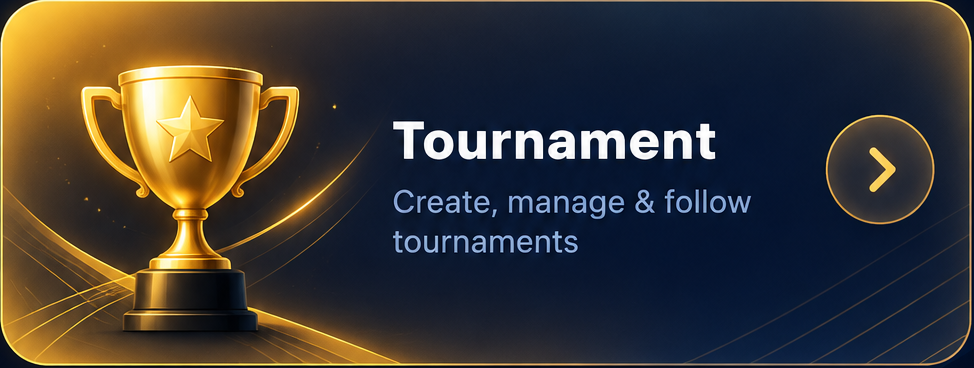
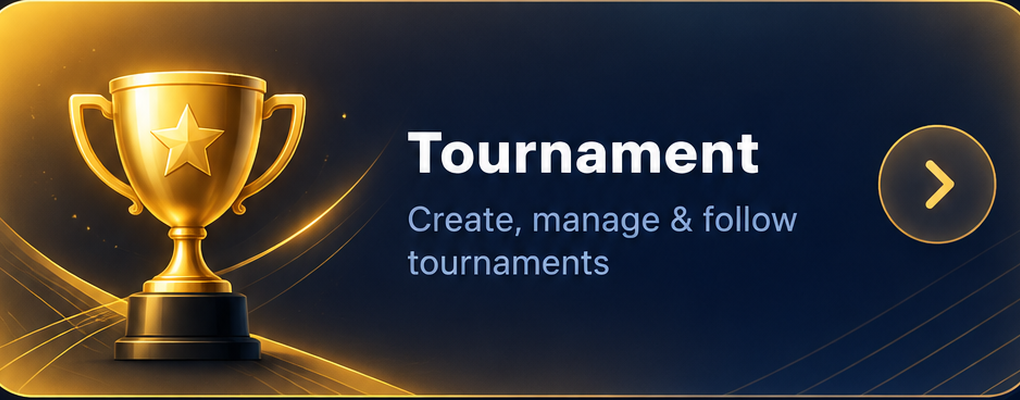
Add files via upload

diff --git a/index.html b/index.html
@@ -3888,6 +3888,15 @@ style="display:none;font-size:0.72rem;color:var(--accent);word-break:break-all;m
 @media(max-width:440px){#scsActivityHome{padding:calc(env(safe-area-inset-top,0px) + 12px) 14px calc(env(safe-area-inset-bottom,0px) + 12px)}#scsActivityHome .scs-activity-panel{gap:14px}}
 @media(max-width:350px){#scsActivityHome .scs-shared-club-head{grid-template-columns:40px minmax(0,1fr) auto}#scsActivityHome .scs-shared-club-action{grid-column:auto;width:auto;min-height:38px}#scsActivityHome .scs-shared-club-status{font-size:.65rem}}
 @media(max-height:650px){#scsActivityHome{align-items:flex-start}#scsActivityHome .scs-activity-panel{gap:10px}#scsActivityHome .scs-shared-club-head{padding:10px}}
+/* Equal-width home cards: one shared box model and one image aspect ratio. */
+#scsActivityHome .scs-activity-panel{width:min(100%,480px)!important;max-width:480px!important;box-sizing:border-box!important;align-items:stretch!important}
+#scsActivityHome .scs-shared-club-head,
+#scsActivityHome .scs-activity-choice.scs-art-card,
+#scsActivityHome .scs-activity-choice.scs-art-card.scs-shared-tournament{display:block;box-sizing:border-box!important;width:100%!important;max-width:100%!important;min-width:0!important;margin-left:0!important;margin-right:0!important;transform-origin:center}
+#scsActivityHome .scs-shared-club-head{display:grid}
+#scsActivityHome .scs-activity-choice.scs-art-card,
+#scsActivityHome .scs-activity-choice.scs-art-card.scs-shared-tournament{height:auto!important;aspect-ratio:51 / 20!important;min-height:0!important;padding:0!important;overflow:hidden!important}
+#scsActivityHome .scs-activity-choice.scs-art-card .scs-card-art{width:100%!important;height:100%!important;object-fit:cover!important;object-position:center!important}
 </style>
 <div id="scsActivityHome" hidden role="dialog" aria-modal="true" aria-label="SCS Home">
  <div class="scs-activity-panel scs-shared-club-card">
@@ -3897,8 +3906,8 @@ style="display:none;font-size:0.72rem;color:var(--accent);word-break:break-all;m
    <button type="button" id="scsSharedClubAction" class="scs-shared-club-action" onclick="scsActivityClubAction()">Login</button>
   </header>
   <div class="scs-shared-club-divider"></div>
-  <button class="scs-activity-choice scs-art-card" aria-label="Practice — Quick games, sessions and training" onclick="scsActivityChoose('practice')"><img class="scs-card-art" src="scs-practice-card.png" alt="Practice — Quick games, sessions and training"></button>
-  <button class="scs-activity-choice scs-art-card scs-shared-tournament" aria-label="Tournament — Create, manage and follow tournaments" onclick="scsActivityChoose('tournament')"><img class="scs-card-art" src="scs-tournament-card.png" alt="Tournament — Create, manage and follow tournaments"></button>
+  <button class="scs-activity-choice scs-art-card" aria-label="Practice — Quick games, sessions and training" onclick="scsActivityChoose('practice')"><img class="scs-card-art" src="scs-practice-card.png?v=V197" alt="Practice — Quick games, sessions and training"></button>
+  <button class="scs-activity-choice scs-art-card scs-shared-tournament" aria-label="Tournament — Create, manage and follow tournaments" onclick="scsActivityChoose('tournament')"><img class="scs-card-art" src="scs-tournament-card.png?v=V197" alt="Tournament — Create, manage and follow tournaments"></button>
  </div>
 </div>
 <script>

diff --git a/sw.js b/sw.js
@@ -1,7 +1,7 @@
 // SCS_BUILD_50_MYHUB_EMBEDDED_CLUBS_REPORT
 /* Sports Club Scheduler service worker — complete installed-app updates. */
-const CACHE_NAME = 'scs-cache-V192';
-const APP_SHELL = './index.html?v=V196';
+const CACHE_NAME = 'scs-cache-V197';
+const APP_SHELL = './index.html?v=V197';
 
 const ASSETS = [
   APP_SHELL,
